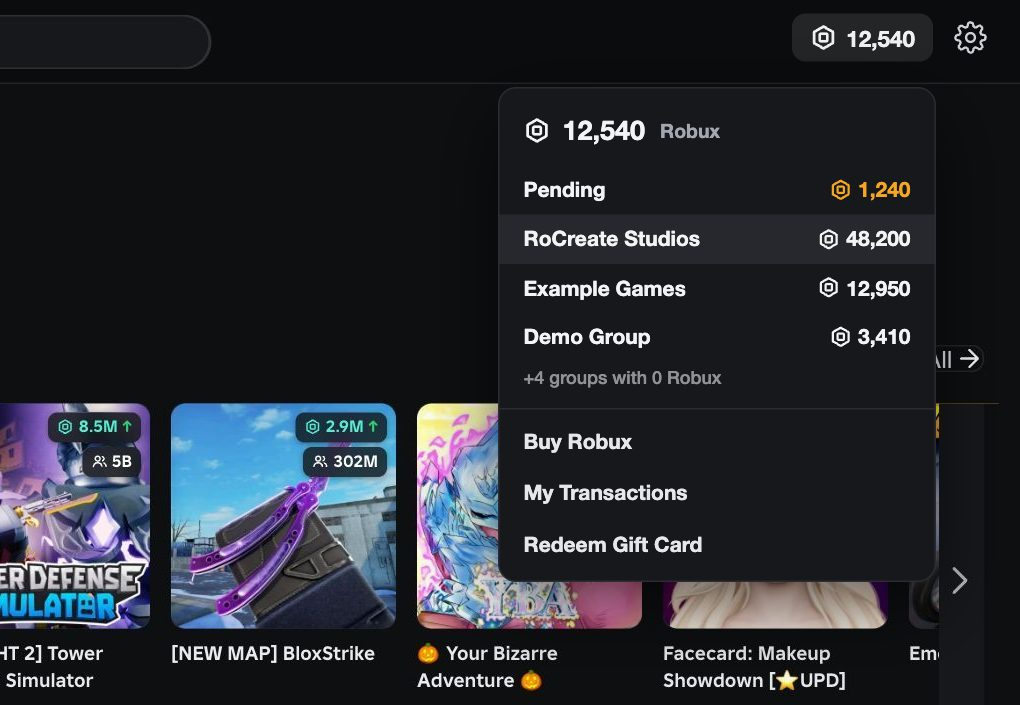
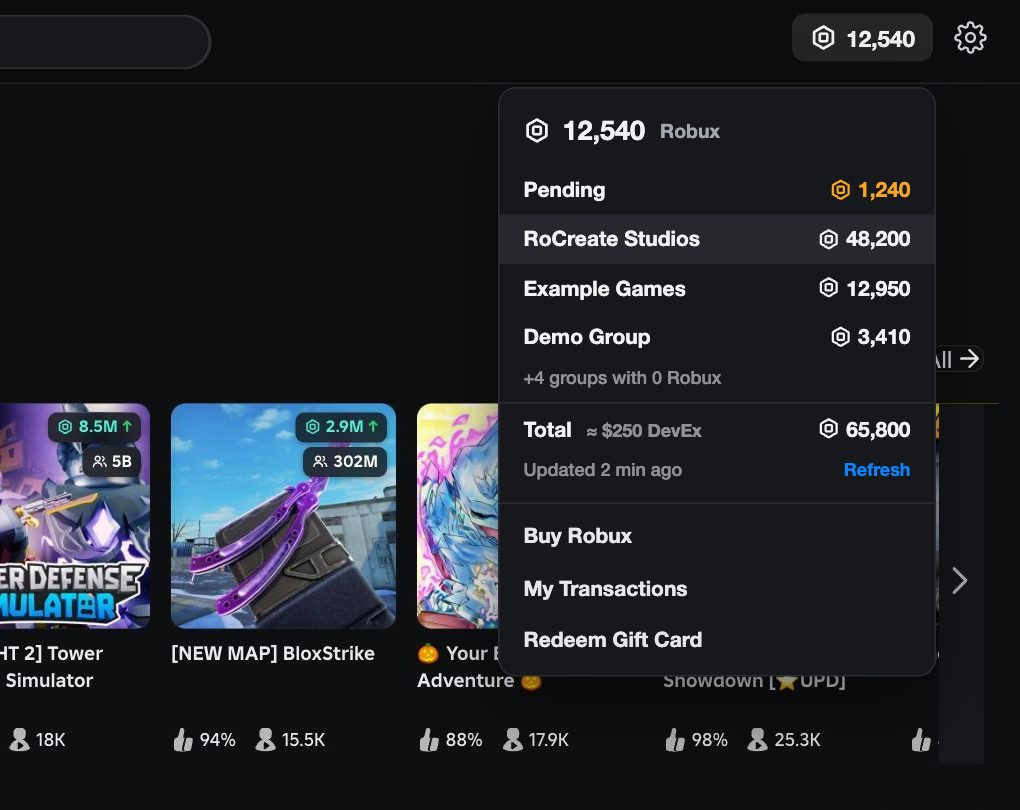
Website and README: Robux menu total and DevEx estimate, refreshed mockup

diff --git a/docs/index.html b/docs/index.html
@@ -118,7 +118,7 @@
         <div class="row">
           <div class="text">
             <h3>Your Robux, in full</h3>
-            <p>Open the Robux menu to see your pending Robux and the funds of every group you manage. Click a group to open its revenue page.</p>
+            <p>Open the Robux menu to see your pending Robux and the funds of every group you manage, with a total and roughly what it's worth through DevEx. Click a group to open its revenue page.</p>
             <p>Switch on sales alerts and RoCreate tells you when your pending Robux or a group's funds go up.</p>
             <p class="note left">Shown with example data.</p>
           </div>

diff --git a/README.md b/README.md
@@ -56,7 +56,8 @@ owns with prices and price filters, mutual friends and previous usernames.
 <p align="center"><img src="docs/img/items.jpg" alt="Official Roblox items with their prices" width="90%"></p>
 
 **Your Robux, in full.** The Robux menu shows your pending Robux and the funds of every group
-you manage, when they were last updated, and a Refresh button. Switch on sales alerts to get a
+you manage, a total with its approximate DevEx value, when they were last updated, and a Refresh
+button. Switch on sales alerts to get a
 notification when your pending Robux or a group's funds go up. *(Example data.)*
 
 <p align="center"><img src="docs/img/robux-menu.jpg" alt="The Robux menu with pending Robux and group funds (example data)" width="70%"></p>
